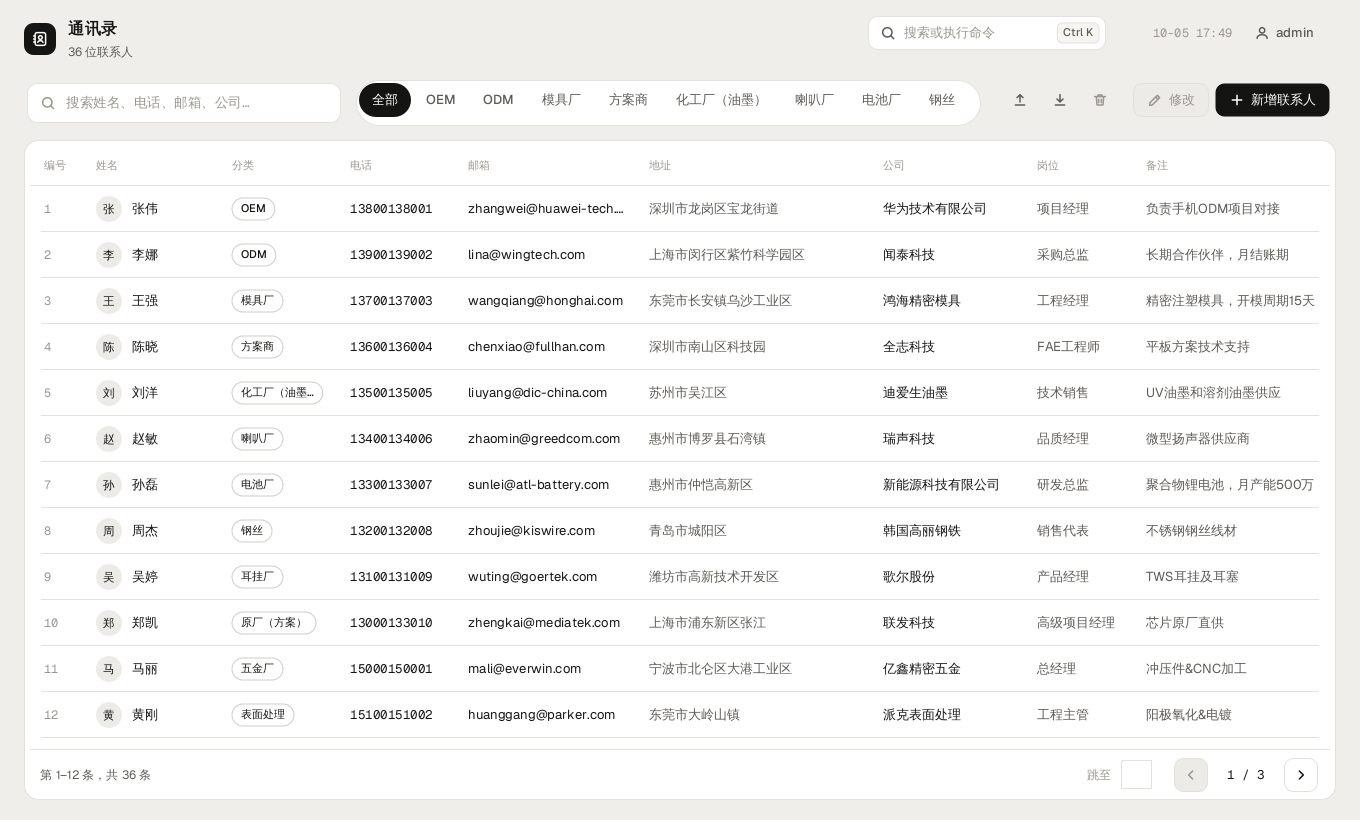
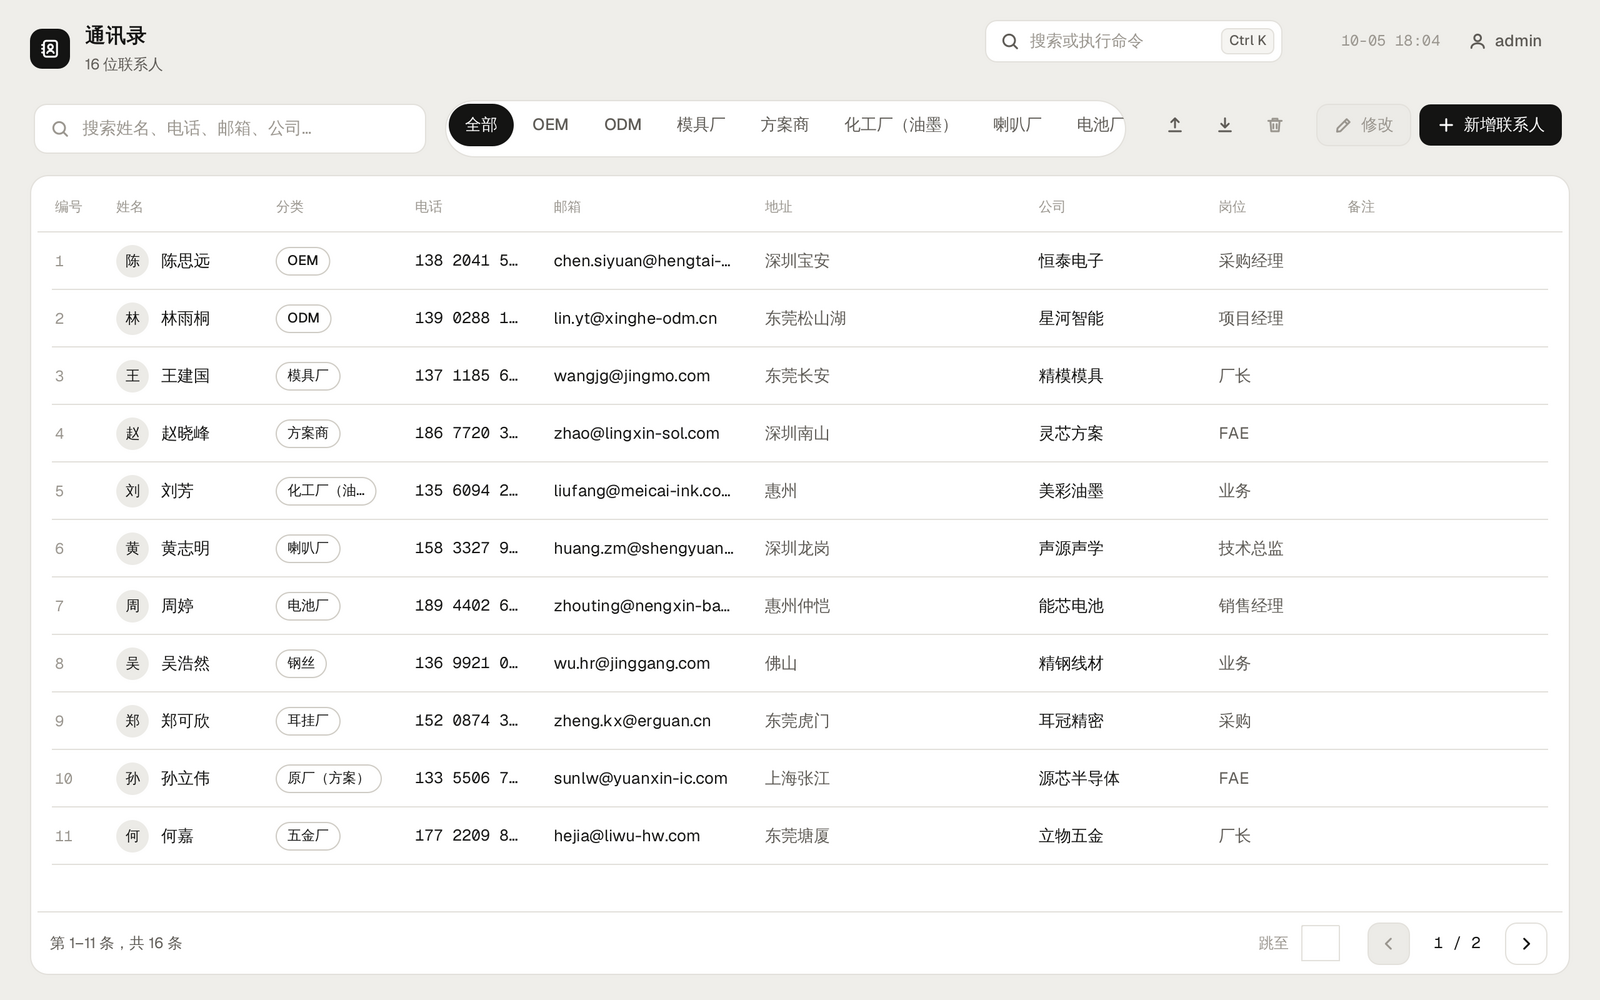
docs: 更新 README 与截图，Release 支持手动触发
- 用当前版本实际运行截取登录、主界面、命令面板、新增联系人、搜索、修改密码截图
- README 补充密码哈希与登录锁定、--reset-password、修改密码/退出登录、快捷键、发布方式
- release.yml 增加 workflow_dispatch，可在 Actions 页面填版本号直接发版

Claude-Session: https://claude.ai/code/session_01GzoEYjX9Rrm1vMK7Vwt3Qo

diff --git a/README.md b/README.md
@@ -4,7 +4,15 @@
 [![UI](https://img.shields.io/badge/UI-Java%20Swing-blue)](https://docs.oracle.com/javase/tutorial/uiswing/)
 [![DB](https://img.shields.io/badge/Database-SQLite-lightgrey?logo=sqlite)](https://www.sqlite.org/)
 [![License](https://img.shields.io/badge/license-MIT-green)](LICENSE)
-[![Platform](https://img.shields.io/badge/platform-Windows-informational)](https://github.com/kekemao00/contact-manager-swing/releases)
+[![Platform](https://img.shields.io/badge/platform-Windows%20%7C%20macOS%20%7C%20Linux-informational)](https://github.com/kekemao00/contact-manager-swing/releases)
+[![Release](https://img.shields.io/github/v/release/kekemao00/contact-manager-swing?include_prereleases&sort=semver)](https://github.com/kekemao00/contact-manager-swing/releases/latest)
+[![CI](https://github.com/kekemao00/contact-manager-swing/actions/workflows/ci.yml/badge.svg)](https://github.com/kekemao00/contact-manager-swing/actions/workflows/ci.yml)
+
+一个**纯本地**的 Java Swing 通讯录：联系人按行业分类管理、全局搜索、CSV 导入导出、自动备份，数据只存在你自己的电脑上。
+
+<p align="center">
+  <img src="images/main.png" alt="主界面" width="860">
+</p>
 
 ---
 
@@ -33,25 +41,55 @@
 | 🏷 **行业分类筛选** | 内置 OEM、ODM、模具厂、方案商等分类，支持自定义扩展 |
 | 🔍 **全局模糊搜索** | 实时过滤，输入即搜，支持姓名、公司、电话、邮箱等多字段匹配 |
 | 📤 **CSV 导入导出** | 方便批量导入历史数据，随时备份导出 |
-| 🔒 **自动备份** | 每次启动自动备份，保留最近 5 份，存储在用户文档目录 |
-| 🎨 **重做的界面** | 暖灰底、黑白组件、Geist 字体；按钮、面板、通知都由同一个形状弹簧变形，`Ctrl/⌘ + K` 命令面板 |
+| 💾 **自动备份** | 每次启动自动备份，保留最近 5 份，存储在用户文档目录 |
+| 🔐 **更安全的登录** | 密码以加盐 PBKDF2 哈希存储（旧版明文密码首次登录时自动升级）；连续输错 5 次锁定 30 秒；支持修改密码、退出登录，忘记密码可用 `--reset-password` 重置 |
+| 🎨 **重做的界面** | 暖灰底、黑白组件、Geist 字体，只在主操作和选中 / 聚焦状态上使用一个蓝色强调色；新增、编辑、确认都在窗口内以面板展开，不再弹对话框 |
+| ⌨ **命令面板与快捷键** | `Ctrl/⌘ + K` 打开命令面板，搜联系人或执行任何操作；常用操作都有快捷键 |
 | 📦 **绿色免安装** | 内嵌 JRE，打包为 Windows 绿色版，解压即用，无需安装 Java 环境 |
 
 ---
 
 ## 📸 截图
 
-### 登录界面
+> 以下截图均为当前版本实际运行截取，数据为演示用的虚构联系人。
 
-![登录界面](images/login.png)
+### 登录
 
-### 主界面
+<p align="center"><img src="images/login.png" alt="登录界面" width="360"></p>
+
+### 主界面：分类标签与联系人列表
 
 ![主界面](images/main.png)
 
-### 搜索与新增
+### 命令面板（`Ctrl/⌘ + K`）
 
-![搜索与新增](images/search_add.png)
+![命令面板](images/command-palette.png)
+
+### 新增 / 编辑联系人
+
+![新增联系人](images/edit.png)
+
+### 全局搜索
+
+![搜索](images/search.png)
+
+### 修改密码（使用默认密码登录时自动提示）
+
+![修改密码](images/change-password.png)
+
+---
+
+## ⌨ 快捷键
+
+| 快捷键 | 作用 |
+|--------|------|
+| `Ctrl/⌘ + K` | 打开命令面板（搜联系人、新增、导入导出、修改密码、退出登录……） |
+| `Ctrl/⌘ + N` | 新增联系人 |
+| `Ctrl/⌘ + F` | 聚焦搜索框 |
+| `Enter` | 编辑选中的联系人；在面板中为保存 |
+| `Delete` | 删除选中的联系人（会先确认） |
+| `Esc` | 关闭面板 / 清空搜索 |
+| `PageUp` / `PageDown` | 上一页 / 下一页 |
 
 ---
 
@@ -69,10 +107,21 @@
 密码：123456
 ```
 
-> ⚠ 首次登录后建议修改默认密码，毕竟 `123456` 这种密码连我同事都能猜到。使用默认密码登录时会自动弹出修改提示，之后也可以在主界面右上角点「修改密码」。
->
-> 忘记密码？带上 `--reset-password` 参数启动一次即可把 `admin` 的密码重置为默认密码：
-> `java -jar contact-manager-swing-<版本>.jar --reset-password`
+> ⚠ 首次登录后建议修改默认密码，毕竟 `123456` 这种密码连我同事都能猜到。使用默认密码登录时会自动弹出修改提示，之后也可以点右上角的账号菜单，或在命令面板里选「修改密码」。
+
+#### 忘记密码
+
+带上 `--reset-password` 参数启动一次，即可把 `admin` 的密码重置为默认密码 `123456`（只改密码，联系人数据不受影响）：
+
+```bash
+# jar 版本
+java -jar contact-manager-swing-<版本>.jar --reset-password
+
+# Windows 绿色版（在解压目录中打开命令行）
+ContactManager.exe --reset-password
+```
+
+> 连续输错 5 次密码会锁定 30 秒，等一会儿再试即可。
 
 已安装 Java 21+ 的用户，也可以下载 `contact-manager-swing-<版本>.jar`，直接运行：
 
@@ -107,14 +156,20 @@ java -jar target/contact-manager-swing.jar
   - `contact-manager-swing-<版本>.jar`：跨平台可运行 jar（需 Java 21+）
   - `ContactManager-<版本>-windows-x64.zip`：内嵌 JRE 的 Windows 绿色版
 
-发布新版本：
+> 合并 PR 到 `main` **不会**自动发版，只会跑 CI。需要发布时用下面任意一种方式：
+
+**方式 A：推送标签**
 
 ```bash
-git tag v1.0.0
-git push origin v1.0.0
+git tag v2.0.0
+git push origin v2.0.0
 ```
 
-标签带 `-`（如 `v1.1.0-beta.1`）时会发布为预发布版本。
+**方式 B：在网页上手动运行**
+
+打开 [Actions → Release](https://github.com/kekemao00/contact-manager-swing/actions/workflows/release.yml)，点 **Run workflow**，填入版本号（如 `2.0.0`），Release 会在 `main` 当前提交上自动创建标签。
+
+版本号带 `-`（如 `v2.1.0-beta.1`）时会发布为预发布版本。
 
 ---
 
@@ -148,6 +203,7 @@ ContactManager/
 │   ├── Utils.java              # 数据库操作、导入导出、备份等工具类
 │   └── ui/                     # 颜色、字体、弹簧动画与通用组件
 ├── resources/fonts/            # Geist 字体（SIL OFL 1.1）
+├── images/                     # README 截图
 ├── .github/workflows/          # CI 与自动发布
 ├── pom.xml                     # Maven 构建配置
 └── .gitignore
@@ -189,7 +245,7 @@ org.slf4j:slf4j-nop:2.0.9
 - [ ] 支持联系人标签（Tag）功能
 - [ ] 支持导出为 vCard (.vcf) 格式
 - [ ] 支持深色模式
-- [ ] 支持 macOS / Linux 打包
+- [ ] 支持 macOS / Linux 安装包（目前可直接运行 jar）
 - [ ] 支持联系人头像
 
 欢迎提 Issue，但请不要在饭局上当面催我。
